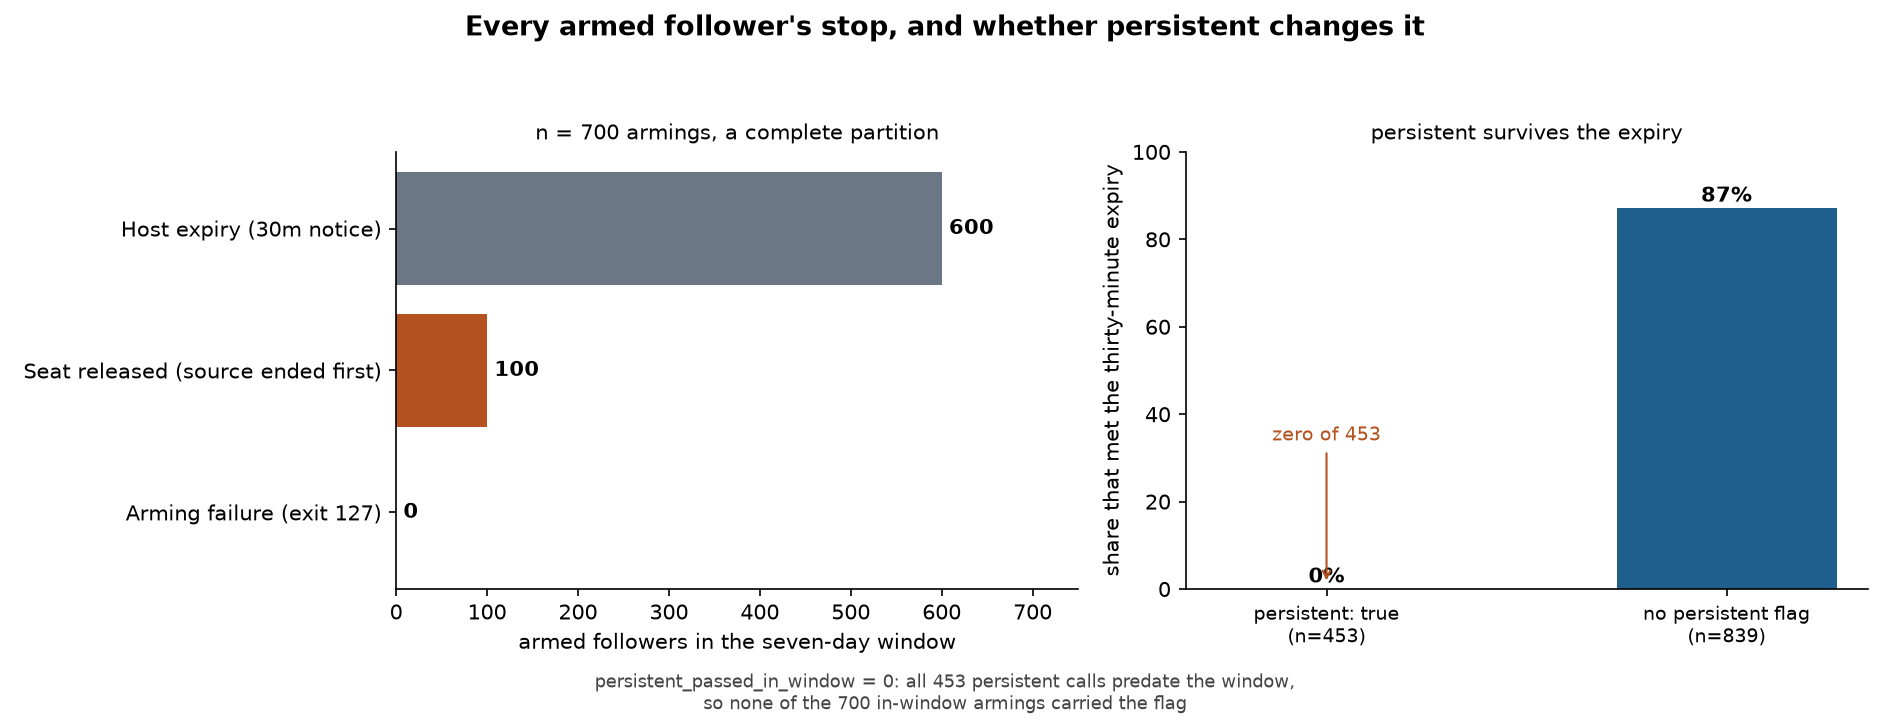
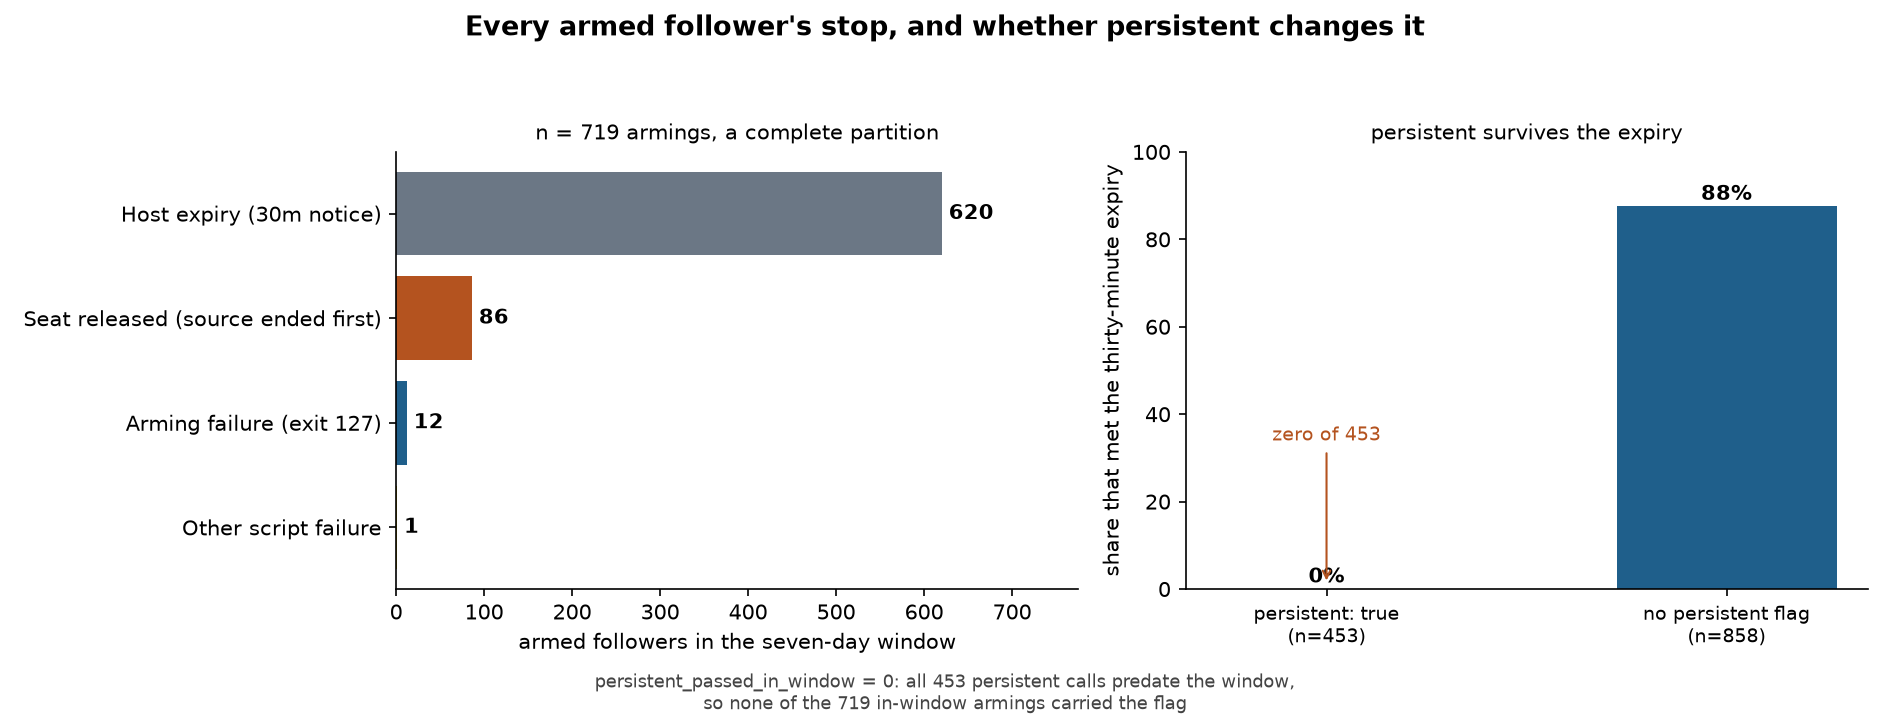
docs(research): attribute armed-follower failures to the host's notice
The census reported zero arming failures. That zero was a false absence: the host
delivers a failed arming as a task notification reading 'Monitor <description> script
failed (exit N)', a shape no matcher aimed at the Monitor tool-result bodies can see, so
the walk yielded no record for the failure line and the producer-gap row absorbed the
failures.

Match the host's form for any exit code, and de-escape the transcript line before
matching, since a regular expression carrying a literal quote cannot match the escaped
form on disk. The window then holds thirteen armed followers with a failure notice: twelve
at exit 127 and one at exit 2. The partition gains an other-script-failure row and the
producer gap falls from 100 to 86, so the four outcome rows sum to the 719 armed followers
in the window.

The arming-failure row now carries its own positive control, the host's notice for a named
task in a named session, which is matched before the zero it replaced could be read. The
file also records the boundary at which the persistent flag stopped being passed: the last
call that carried it, and the first call without it that met the expiry.

The verifier asserts the four-row partition, the failure population tying the two failure
rows together, and the arming row's own control, and was falsified by four independent
mutations on a scratch copy.

diff --git a/docs/evidence/archive/the-monitor-under-measurement-landed.html b/docs/evidence/archive/the-monitor-under-measurement-landed.html
@@ -32,13 +32,13 @@
     <code>docs/research/data/monitor-staleness-census.json</code>, one row per cause, each carrying
     its count, the pattern searched, the population searched and quoted examples with their
     transcript paths. Scope was the reckon, nova, imas-efit and imas-ambix checkouts including
-    their worktrees: 1384 transcript directories, 1583 transcript files, 1292 Monitor calls
-    (all time) of which 700 were armed inside the window.</p>
+    their worktrees: 1412 transcript directories, 1610 transcript files, 1311 Monitor calls
+    (all time) of which 719 were armed inside the window.</p>
 
     <p><strong>The positive control holds.</strong> The plan set the control that the imas-efit
     transcripts for 2026-09-22 yield at least nine expiry notices, because that coordinator
     reported nine. The matcher, <code>Monitor expired after (\d+)m with (no|\d+) events?
-    delivered</code>, returns <strong>17</strong> for that session and day. The instrument was
+    delivered</code>, returns <strong>20</strong> for that session and day. The instrument was
     additionally shown to see prose that merely quotes the string: two such records were found
     and excluded from the count, because a notice is delivered as a
     <code>&lt;task-notification&gt;</code> event, never as text a reader is quoting.</p>
@@ -46,28 +46,48 @@
     <table>
       <thead><tr><th>Cause</th><th>Count</th><th>Population</th></tr></thead>
       <tbody>
-        <tr><td>Host expiry</td><td>600</td><td>armed followers in the window</td></tr>
-        <tr><td>Producer gap (seat released before expiry)</td><td>100</td><td>armed followers whose expiry deadline preceded the window's close</td></tr>
-        <tr><td>Arming failure</td><td>0</td><td>all Monitor results, corpus-wide</td></tr>
+        <tr><td>Host expiry</td><td>620</td><td>armed followers in the window</td></tr>
+        <tr><td>Producer gap (seat released before expiry)</td><td>86</td><td>armed followers whose expiry deadline preceded the window's close</td></tr>
+        <tr><td>Arming failure (exit 127)</td><td>12</td><td>armed followers in the window whose task carries a host <code>script failed</code> notice</td></tr>
+        <tr><td>Other script failure</td><td>1</td><td>the four rows partition the 719 armed followers in the window</td></tr>
         <tr><td>Code reload</td><td>198</td><td>commits touching <code>reckon/cli.py</code> or <code>reckon/crew/*.py</code></td></tr>
       </tbody>
     </table>
 
-    <p>700 = 600 + 100 + 0. Every armed follower in the window falls into exactly one outcome, so
-    the census is a partition rather than three overlapping searches. Zero armings were still
-    running when the window closed.</p>
+    <p>719 = 620 + 86 + 12 + 1. Every armed follower in the window falls into exactly one of the
+    four outcome rows, so the census is a partition rather than overlapping searches; the
+    code-reload row is counted over a different population (commits, not armings) and is excluded
+    from the sum. Zero armings were still running when the window closed.</p>
 
     <p><strong>The host's parameter set.</strong> 453 Monitor calls passed
     <code>persistent</code>; the harness answers such a call with <em>"runs until TaskStop or
     session end"</em>, and answers a call without it with <em>"expires in 30m unless the source
-    ends first"</em>. None of the 453 persistent calls met the thirty-minute expiry; 730
+    ends first"</em>. None of the 453 persistent calls met the thirty-minute expiry; 751
     non-persistent calls did. The finding that matters for the repair plans is the timing: every
     one of the 453 persistent calls predates 2026-09-16, so <code>persistent_passed_in_window
-    = 0</code> and not one of the 700 in-window armings carried the flag. The re-arm storm the
+    = 0</code> and not one of the 719 in-window armings carried the flag. The re-arm storm the
     coordinators reported is a re-arm storm in a window where nobody was passing
     <code>persistent</code>. The median interval between successive armings in one session is
     <strong>30.23 minutes</strong> over 64 sessions, which is the thirty-minute expiry read
-    back out of the transcripts.</p>
+    back out of the transcripts. The boundary at which the flag stopped being passed is
+    recorded: the last call that carried it was armed 2026-09-15T13:40:15Z in the imas-ambix
+    transcript <code>52baf927&hellip;</code>; the first non-persistent call that met the expiry
+    was armed 2026-09-14T20:41:15Z in the reckon transcript <code>3332e8d8&hellip;</code>.</p>
+
+    <p><strong>Refuted and repaired: the arming-failure row.</strong> An earlier reading of this
+    census reported <strong>0</strong> arming failures and a producer gap of <strong>100</strong>,
+    and the coordinator refuted it from a real field case. The host reports a failed arming as a
+    task notification whose summary is <code>Monitor &lt;description&gt; script failed
+    (exit N)</code>, in the imas-efit session <code>e2fc50d7</code> for task
+    <code>bjx1kic75</code> among others. Two independent defects hid it: the walk yielded no
+    record for a failure-only line, and a regular expression carrying a literal quote cannot
+    match the raw transcript, where the quote is escaped as <code>\"</code>. Matched on the
+    host's form, for any exit code, and after de-escaping the line, the window holds
+    <strong>13</strong> armed followers with a failure notice &mdash; 12 at exit 127 and 1 at exit
+    2 &mdash; so the arming-failure row is 12, a fourth row carries the other script failure, and
+    the producer gap that had been absorbing them falls to <strong>86</strong>. The row now
+    carries its own positive control, the named task, which is matched before the zero it
+    replaced could be read.</p>
 
     <p><strong>Sweep-launched workers survive the follower.</strong> Yes as to parentage, no as
     to the kill. <code>_sweep_lapsed_holds</code> (<code>reckon/cli.py:1633</code>) calls
@@ -82,8 +102,9 @@
 
     <figure>
       <img src="/reckon/figures/the-monitor-under-measurement/staleness-causes.png"
-           alt="Left panel: 600 host expiries, 100 seat releases, 0 arming failures. Right panel: 0 percent of persistent Monitor calls met the 30-minute expiry against 87 percent of the rest.">
-      <figcaption>Left: the complete partition of 700 in-window armings. Right: the expiry rate
+           alt="Left panel: 620 host expiries, 86 seat releases, 12 arming failures, 1 other script failure. Right panel: 0 percent of persistent Monitor calls met the 30-minute expiry against 88
+                 percent of the rest.">
+      <figcaption>Left: the complete partition of 719 in-window armings. Right: the expiry rate
       split by the <code>persistent</code> flag — zero of 453.</figcaption>
     </figure>
 

diff --git a/docs/plans/the-monitor-under-measurement.html b/docs/plans/the-monitor-under-measurement.html
@@ -93,17 +93,33 @@
       <h3>&sect;2 landing record &mdash; the cause census</h3>
       <p><strong>Landed.</strong> <code>docs/research/data/monitor-staleness-census.json</code>
       carries one row per cause over 2026-09-16&ndash;2026-09-23 across the reckon, nova,
-      imas-efit and imas-ambix checkouts (1384 transcript directories, 1292 Monitor calls).</p>
+      imas-efit and imas-ambix checkouts (1412 transcript directories, 1311 Monitor calls).</p>
       <p>The positive control holds: the imas-efit transcripts for 2026-09-22 yield
-      <strong>17</strong> expiry notices against the coordinator's reported nine. Every armed
-      follower in the window falls into exactly one of three outcomes, a complete partition of
-      700 armings: <strong>600</strong> met the host's thirty-minute expiry, <strong>100</strong>
-      ended early because the seat was released, and <strong>0</strong> failed to arm. On the
-      host's parameters, <strong>453</strong> Monitor calls passed <code>persistent</code> and
-      none of them met the expiry, while 730 non-persistent calls did; every one of the 453
-      predates the window, so not one of the 700 in-window armings carried the flag. The median
-      interval between successive armings in one session is
-      <strong>30.23&nbsp;minutes</strong> across 64 sessions.</p>
+      <strong>20</strong> expiry notices against the coordinator's reported nine. Every armed
+      follower in the window falls into exactly one of four outcomes, a complete partition of
+      719 armings: <strong>620</strong> met the host's thirty-minute expiry, <strong>86</strong>
+      ended early because the seat was released, <strong>12</strong> failed to arm, and
+      <strong>1</strong> failed in another way (exit 2). On the host's parameters,
+      <strong>453</strong> Monitor calls passed <code>persistent</code> and none of them met the
+      expiry, while 751 non-persistent calls did; every one of the 453 predates the window, so
+      not one of the 719 in-window armings carried the flag. The last call that passed the flag
+      was armed 2026-09-15T13:40:15Z in the imas-ambix transcript <code>52baf927&hellip;</code>,
+      and the first non-persistent call that met the expiry was armed 2026-09-14T20:41:15Z in the
+      reckon transcript <code>3332e8d8&hellip;</code>, so the boundary at which the parameter
+      stopped being passed is recorded. The median interval between successive armings in one
+      session is <strong>30.23&nbsp;minutes</strong> across 64 sessions.</p>
+      <p><strong>The arming-failure row was refuted and repaired.</strong> An earlier reading
+      reported <strong>0</strong> arming failures and a producer gap of 100. The host reports a
+      failed arming as a task notification whose summary is
+      <code>Monitor &lt;description&gt; script failed (exit N)</code> &mdash; a shape no matcher
+      aimed at the Monitor tool-result bodies can see, so the walk yielded no failure record and
+      the zero looked measured while the producer-gap row absorbed the failures. Widening the
+      matcher to the host's form, for any exit code, and de-escaping the transcript line before
+      matching finds <strong>13</strong> armed followers in the window with a failure notice:
+      <strong>12</strong> with exit 127 and <strong>1</strong> with exit 2. The row now carries its
+      own positive control, the notice for task <code>bjx1kic75</code> in the imas-efit session
+      <code>e2fc50d7</code>, which is matched before the zero it replaced could be read, and the
+      producer gap falls to 86 accordingly.</p>
       <p>Sweep-launched workers: <strong>yes as to parentage, no as to the kill.</strong> The
       sweep reaches <code>subprocess.Popen</code> at <code>reckon/crew/dispatch.py:4585</code>,
       which makes the worker the follower's child, but it passes <code>start_new_session=True</code>
@@ -111,9 +127,10 @@
       survives the follower's death.</p>
       <figure>
         <img src="/reckon/figures/the-monitor-under-measurement/staleness-causes.png"
-             alt="Left: 600 host expiries, 100 seat releases, 0 arming failures. Right: 0% of
-                  persistent Monitor calls met the 30-minute expiry against 87% of the rest.">
-        <figcaption>The complete partition of 700 in-window armings, and the expiry rate split by
+             alt="Left: 620 host expiries, 86 seat releases, 12 arming failures, 1 other script
+                  failure. Right: 0% of persistent Monitor calls met the 30-minute expiry against
+                  88% of the rest.">
+        <figcaption>The complete partition of 719 in-window armings, and the expiry rate split by
         the <code>persistent</code> flag. All 453 persistent calls predate the window.</figcaption>
       </figure>
       <p><strong>Caveats.</strong> The code-reload row counts 198 commits touching
